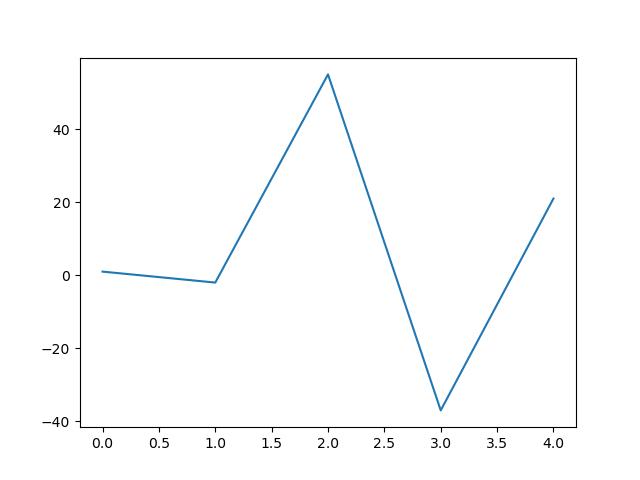
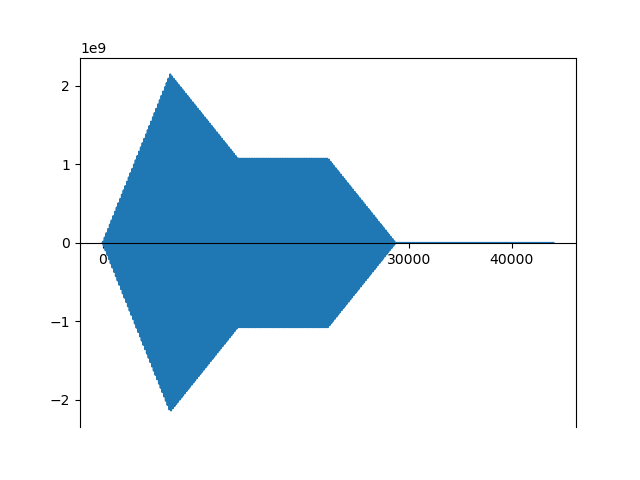
improved test interface
made it possible to test locally and plot the results.
a function in tests.c exports test data as plot.csv (i could have
probably come up with a better name). the same source file runs the
script, which plots the data using matplotlib

diff --git a/src/voice.c b/src/voice.c
@@ -140,14 +140,14 @@ void initialize_voice(struct voice *v) {
 
     // TODO: uncomment
     //initialize_env(&v->amp_env, 0.1, 0.1, 0.1, 1.0);
-    initialize_env(&v->amp_env, 0.0001, 0.0001, 0.0001, 1.0, 0.0);
+    initialize_env(&v->amp_env, 0.01, 0.01, 0.01, 0.5, 0.0);
     //initialize_env(&v->amp_env, ENV_MAX_TIME_MOD, ENV_MAX_TIME_MOD, ENV_MAX_TIME_MOD, 1.0);
     //initialize_env(&v->filter_env, 0.0001, 0.001, 0.0001, 0.0);
 
     v->sync = false;
     v->ring_mod = false;
-    initialize_osc(&v->osc1, SAW);
-    initialize_osc(&v->osc2, SAW);
+    initialize_osc(&v->osc1, SIN);
+    initialize_osc(&v->osc2, SIN);
 
     initialize_filter(&v->filter, 0.01, 1.0, v->note);
     initialize_lfo(&v->lfo, 2, SIN);
@@ -161,10 +161,10 @@ void start_voice_mono_legato(struct voice *v, int note) {
 
 
     if (global_paramaters.mode == LEGATO) {
-        initialize_env(&v->amp_env, 0.1, 0.01, 0.1, 0.5, v->amp_env.level);
+        initialize_env(&v->amp_env, 0.01, 0.01, 0.1, 0.5, v->amp_env.level);
         initialize_env(&v->filter_env, 0.1, 0.01, 0.1, 0.5, v->filter_env.level);
     } else {
-        initialize_env(&v->amp_env, 0.0001, 0.0001, 0.0001, 1.0, 0.0);
+        initialize_env(&v->amp_env, 0.01, 0.01, 0.01, 0.5, 0.0);
         initialize_env(&v->filter_env, 0.0001, 0.0001, 0.0001, 1.0, 0.0);
     }
 
@@ -198,8 +198,8 @@ void reset_voice(struct voice *v) {
     v->ring_mod = false;
 
     // envelopes are not reset here to make a future legato toggle possible
-    initialize_osc(&v->osc1, SAW);
-    initialize_osc(&v->osc2, SAW);
+    initialize_osc(&v->osc1, SIN);
+    initialize_osc(&v->osc2, SIN);
 
     initialize_filter(&v->filter, 0.01, 1.0, v->note);
     initialize_lfo(&v->lfo, 2, SIN);
@@ -289,6 +289,7 @@ float process_voice(struct voice *v) {
         //for (int i = 0; i < 7; i++) {
         //    out += process_osc(&v->oscillators[i], v->note * 100 + max_detune[i] * pot_mod);//0.25);
         //}
+        out *= v->amp_env.level;
 
         //out = process_filter(&v->lowpass, out, v->filter_env.mod);
         //out = process_filter(&v->filter, out);

diff --git a/tests/tests.c b/tests/tests.c
@@ -25,9 +25,36 @@ void plot_data(void) {
     system("/bin/python3 /mnt/c/Users/jakob/coding-related/micontroller-projects/npicosyn/scripts/plot.py");
 }
 
+void run_note(struct voice *v, uint8_t note, fixed data[], uint32_t note_duration, uint32_t sampling_duration) {
+    midi_previous_keys[note] = midi_keys[note];
+    midi_keys[note] = 127;
+    start_voice_mono_legato(v, note);
+    for (int i = 0; i < note_duration; i++) {
+        data[i] = (fixed) FIXED_MAX * process_voice(v);
+    }
+
+    // super ugly way to end note, but it does the job
+    midi_previous_keys[note] = midi_keys[note];
+    midi_keys[note] = 0;
+    
+    for (int i = 0; i < sampling_duration - note_duration; i++) {
+        data[i + note_duration] = (fixed) FIXED_MAX * process_voice(v);
+    }
+}
+
 int main(void) {
     fixed arr[5] = {1, -2, 55, -37, 21};
-    write_data(arr, 5);
+
+    struct voice v;
+    initialize_voice(&v);
+
+    uint32_t duration = 44100;
+    uint32_t note_duration = 22050;
+    uint32_t sampling_duration = 44100;
+    fixed data[sampling_duration];
+    run_note(&v, 60, data, note_duration, sampling_duration);
+
+    write_data(data, sampling_duration);
     plot_data();
 
     return 0;

diff --git a/src/oscillators.c b/src/oscillators.c
@@ -3,7 +3,6 @@
 
 #include <math.h>
 
-
 const float LFO_MOD = 360.0 / SAMPLE_RATE;
 
 void initialize_wavetable(fixed *wavetable, float (*f)(float)) {
@@ -13,19 +12,19 @@ void initialize_wavetable(fixed *wavetable, float (*f)(float)) {
 }
 
 // the functions are used to generate wave tables. wave periods are all 1.0
-static float sin_wave(float x) {
+float sin_wave(float x) {
     return sin(2.0 * M_PI * x);
 }
 
-static float square_wave(float x) {
+float square_wave(float x) {
     return 2.0 * floor(sin(2.0 * M_PI * x)) + 1;
 }
 
-static float sawtooth_wave(float x) {
+float sawtooth_wave(float x) {
     return 2.0 * fmod(x, 1.0) - 1;
 }
 
-static float triangle_wave(float x) {
+float triangle_wave(float x) {
     return asin(sin(2.0 * M_PI * x)) * 2.0 / M_PI;
 }
 

diff --git a/scripts/plot.py b/scripts/plot.py
@@ -1,6 +1,5 @@
-#import numpy as np
 import numpy as np
-from matplotlib.pyplot import plot, savefig
+import matplotlib.pyplot as plt 
 from matplotlib import use
 
 use("Agg")
@@ -14,7 +13,9 @@ raw_arr = np.genfromtxt(
 )
 arr = np.array([raw_arr[0][0:-1], raw_arr[1][0:-1]])
 #print(raw_arr[0][0:-1])
-plot(arr[0], arr[1], )
+plt.plot(arr[0], arr[1], )
+ax = plt.gca()
+ax.spines["bottom"].set_position("zero")
 print("generating image...")
-savefig(path + "/scripts/plot.png")
+plt.savefig(path + "/scripts/plot.png")
 print("done!")

diff --git a/src/envelope.c b/src/envelope.c
@@ -119,9 +119,9 @@ void process_env_ads(struct env *e) {
             }
             break;
         case DECAY:
-            e->level += e->a_mod;
-            if (e->level > 1.0) {
-                e->level = 1.0;
+            e->level -= e->d_mod;
+            if (e->level < e->s_mod) {
+                e->level = e->s_mod;
                 e->state = DECAY;
             }
             break;

diff --git a/include/picosyn.h b/include/picosyn.h
@@ -19,8 +19,8 @@
 
 // rpi pico is little endian
 typedef int32_t fixed;
-extern const fixed FIXED_MAX;
-extern const fixed FIXED_MIN;
+#define FIXED_MAX INT32_MAX
+#define FIXED_MIN INT32_MIN
 
 inline fixed mul_fixed(fixed a, fixed b) {
     int64_t temp = (int64_t)(a * b);

diff --git a/src/picosyn.c b/src/picosyn.c
@@ -23,10 +23,6 @@
 #define MUX_2_PIN 19
 #define MUX_3_PIN 20 
 
-
-const fixed FIXED_MAX = INT32_MAX;
-const fixed FIXED_MIN = INT32_MIN;
-
 extern inline fixed mul_fixed(fixed a, fixed b);
 extern inline fixed div_fixed(fixed a, fixed b);
 
